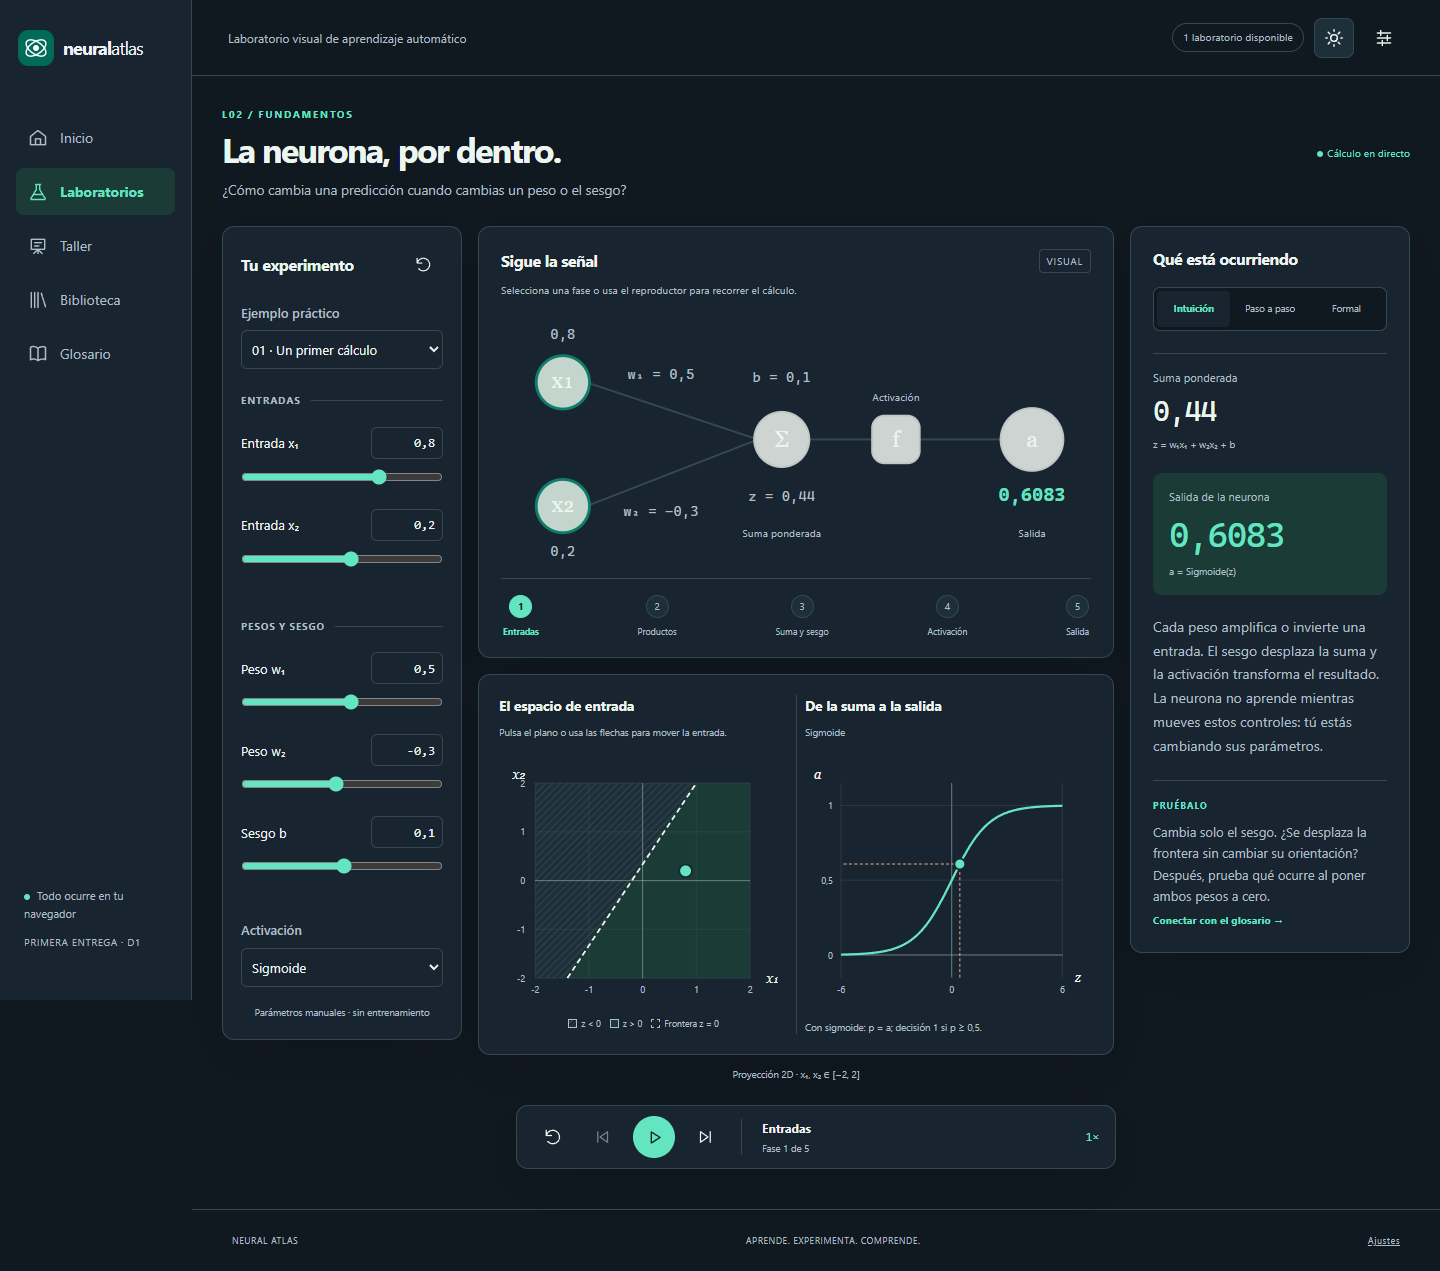
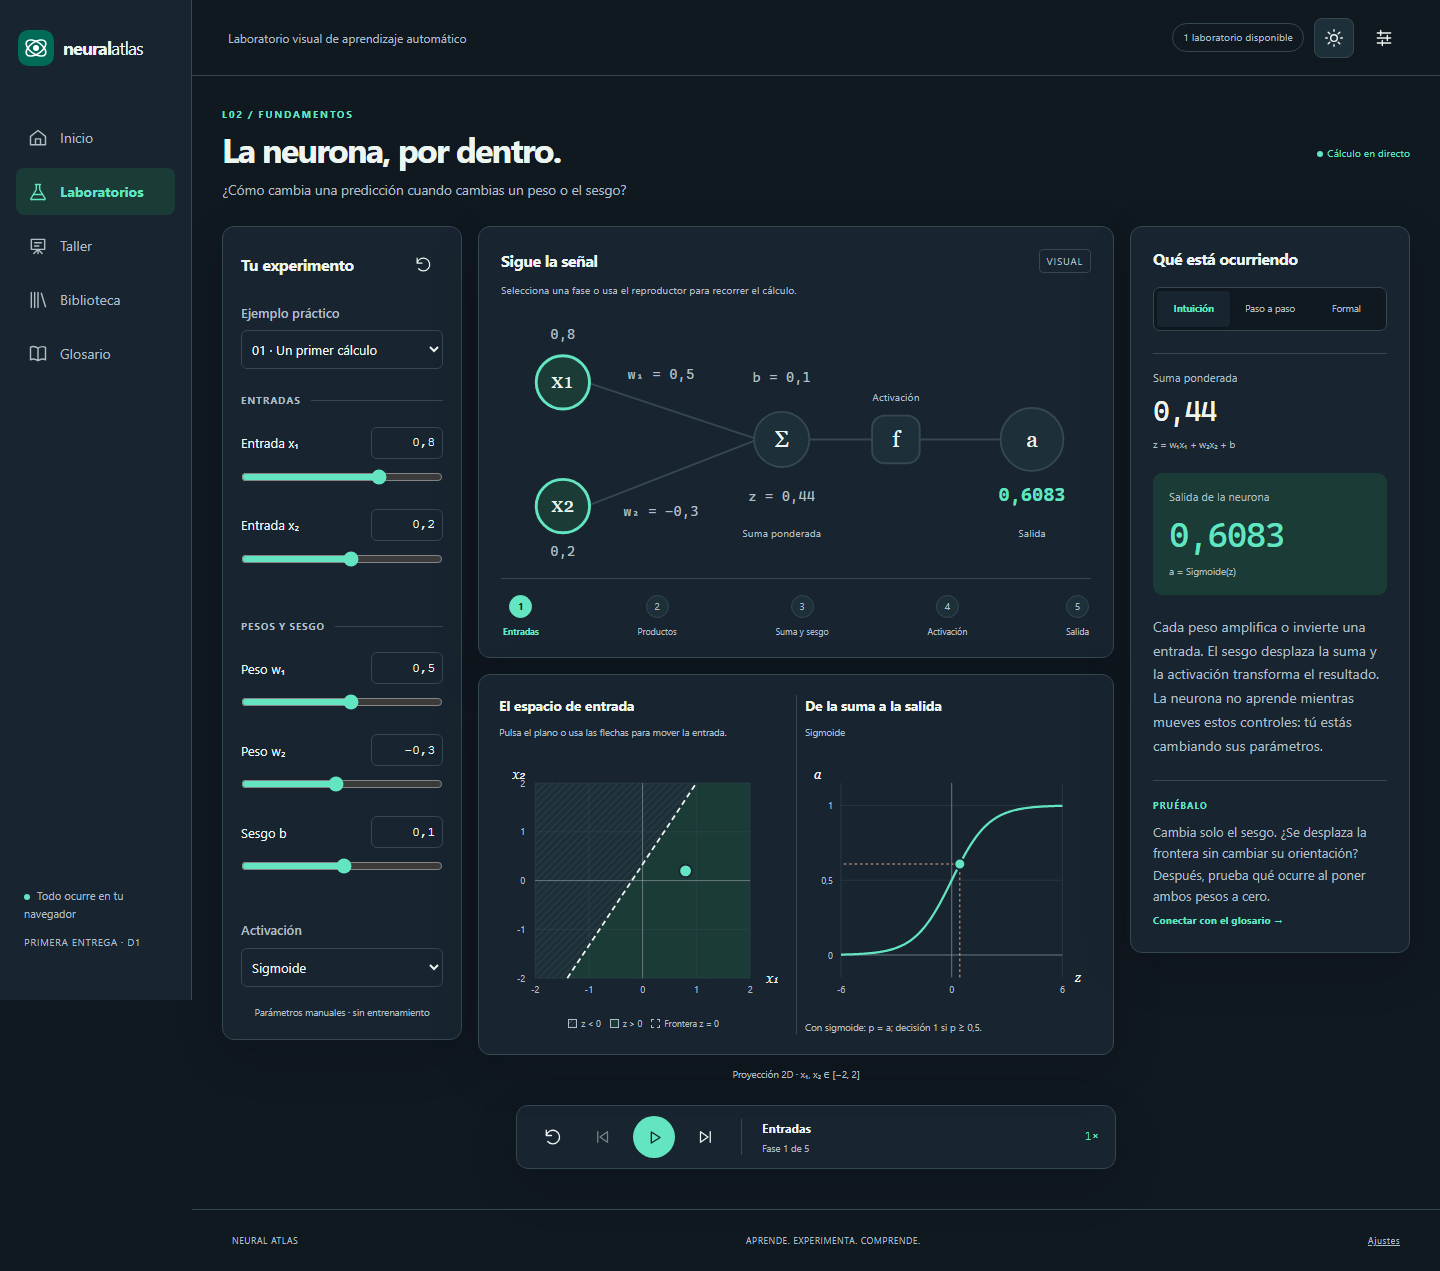
docs(d1): registrar CI aprobada y capturas visuales estables

diff --git a/docs/23-implementacion-d1.md b/docs/23-implementacion-d1.md
@@ -102,6 +102,7 @@ Ejecución local final en Windows, Node 24.19.0, 22/10/2026:
 | Playwright Chromium | 10 recorridos correctos |
 | Playwright WebKit | 10 recorridos correctos |
 | Playwright Firefox | No ejecutables localmente por la incidencia de arranque descrita abajo |
+| CI Ubuntu 24.04 | Instalación limpia, `check`, matriz Chromium/Firefox/WebKit e informes: aprobados en [ejecución 39854702324](https://github.com/franmatias/neural-atlas/actions/runs/39854702324), commit `85e4add` |
 | Transferencia inicial gzip | JS 48,79 KiB; CSS 7,41 KiB; dentro de límites 250/60 KiB |
 | Documentación | 26 Mermaid válidos/sincronizados y 160 enlaces locales correctos |
 
@@ -109,12 +110,12 @@ El presupuesto se comprueba sobre imports iniciales más la ruta de inicio y su 
 
 La revisión de navegador cubre ambas apariencias con axe (WCAG 2 A/AA y 2.1 AA), anchos 360/390/768/1024/1440, texto ampliado, teclado, persistencia, almacenamiento denegado, movimiento reducido y CSP. Son controles automáticos y revisión visual del agente; no certifican accesibilidad integral ni sustituyen una prueba con lector de pantalla o una revisión docente en aula.
 
-**Incidencia del entorno Windows:** el Firefox 157 de Playwright 1.64.1 no arranca por un ensamblado `mozglue` no encontrado. Se comprobó el registro SideBySide y se reinstaló el paquete una vez; el fallo persiste antes de abrir la aplicación. No se modificó Windows ni se sustituyó el navegador por uno no compatible. La matriz conserva Firefox y se ejecutará también en Ubuntu mediante CI. Hasta ver su resultado, Firefox local está pendiente, no aprobado ni omitido silenciosamente.
+**Incidencia del entorno Windows:** el Firefox 157 de Playwright 1.64.1 no arranca por un ensamblado `mozglue` no encontrado. Se comprobó el registro SideBySide y se reinstaló el paquete una vez; el fallo persiste antes de abrir la aplicación. No se modificó Windows ni se sustituyó el navegador por uno no compatible. La misma matriz **ha pasado en Ubuntu mediante CI**, incluido Firefox. Esa evidencia verifica Linux y no convierte el Firefox local de Windows en un resultado aprobado.
 
 La CSP de producción usa scripts y conexiones propios, sin `eval` ni scripts inline. El tema inicial se aplica mediante un archivo externo antes del arranque; el aviso de Vite de que ese script clásico no se empaqueta es esperado: se copia desde `public/` y su funcionamiento se comprueba en E2E. Desarrollo permite WebSocket local para HMR; ese permiso se elimina del HTML productivo. Los estilos permiten inline para atributos reactivos; no hay CDNs ni analítica. Aún no hay Service Worker ni promesa de uso offline.
 
 ## Git e integración continua
 
-Tres incrementos D1: `feat/d1-shell-settings`, `feat/d1-neuron-playback`, `test/d1-accessibility-csp`. Se integran con `--no-ff`, conservando las ramas para revisar. El flujo CI fija Node 24.19.0 y acciones oficiales por SHA; ejecuta `check` y los tres motores de Playwright, publica informes y no despliega GitHub Pages. Un workflow configurado no equivale a una ejecución remota aprobada.
+Tres incrementos de implementación D1: `feat/d1-shell-settings`, `feat/d1-neuron-playback`, `test/d1-accessibility-csp`; `docs/d1-ci-verification` registra después el resultado remoto y las capturas estables, sin cambiar código de la aplicación. Se integran con `--no-ff`, conservando las ramas para revisar. El flujo CI fija Node 24.19.0 y acciones oficiales por SHA; ejecuta `check` y los tres motores de Playwright, publica informes y no despliega GitHub Pages. La aprobación remota registrada corresponde a una ejecución real, no solo a disponer de un workflow.
 
 La siguiente fase D2 incorpora generación reproducible, defectos, división de datos, pipeline sin fuga e importación/exportación CSV/JSON. El entrenamiento en Worker corresponde a D4 según la dependencia con MLP/backprop de D3.

diff --git a/README.md b/README.md
@@ -27,7 +27,7 @@ npm run test:e2e
 
 Tipos, lint, unidades/integración, cobertura con umbrales, build, presupuesto y documentación. Playwright comprueba recorridos, accesibilidad automática, teclado, persistencia, temas, responsive y CSP sobre producción. Informes: `coverage/` y `playwright-report/`.
 
-La [entrega D1](docs/23-implementacion-d1.md) documenta arquitectura real, uso, trazabilidad y resultados. Firefox de pruebas tiene una incidencia local de arranque en Windows documentada; su comprobación permanece configurada en CI y no se da por aprobada sin ejecución.
+La [entrega D1](docs/23-implementacion-d1.md) documenta arquitectura real, uso, trazabilidad y resultados: 61 pruebas de unidad/integración, 98,93% de cobertura de líneas y [CI aprobada con Chromium, Firefox y WebKit en Linux](https://github.com/franmatias/neural-atlas/actions/runs/39854702324). Firefox tiene además una incidencia local de arranque en Windows documentada.
 
 ## Alcance y continuidad
 
